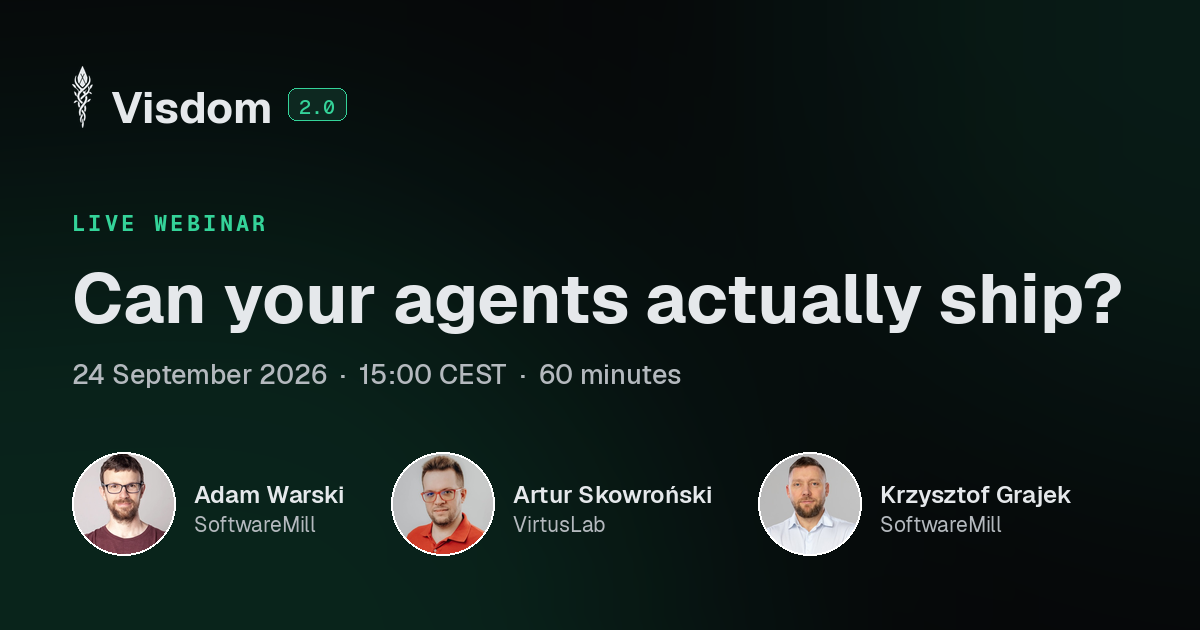
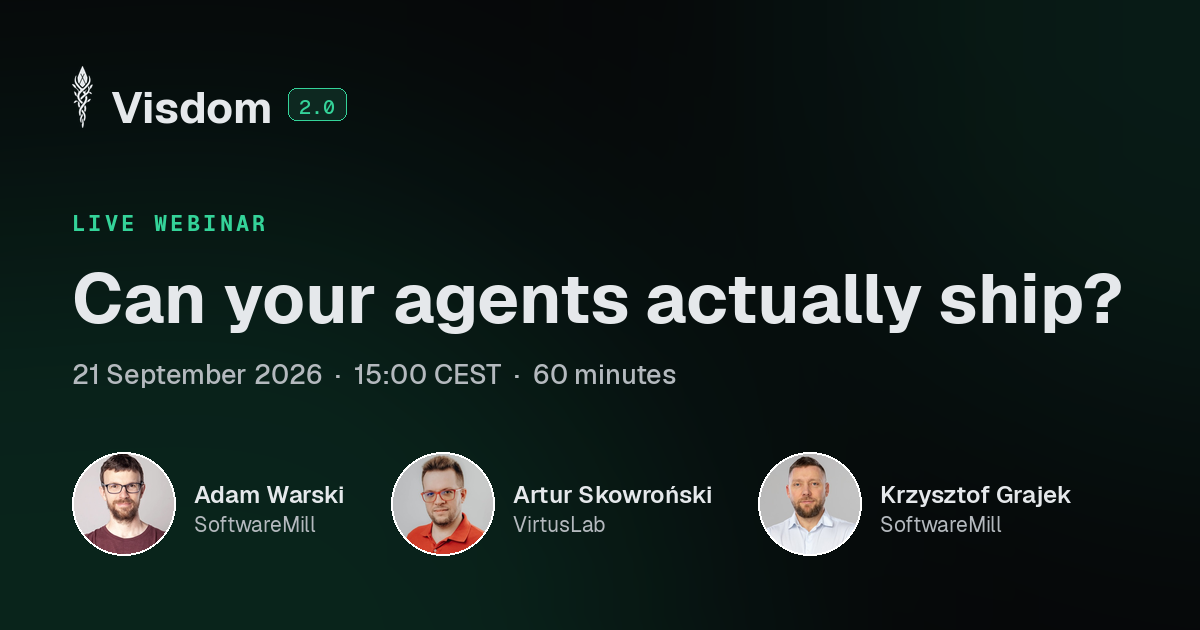
fix(webinar): move the session to Monday 21 September
The schedule had to be reworked and the session came off 24 September.
The clock time is unchanged: 15:00 CEST is what keeps the session
reachable from New York in the morning.

Both cards are regenerated from src/data/webinar.ts, so the page, the
Open Graph card and the Sequel cover all carry the new date.

Changed region(s): [[0.0617, 0.573, 0.5858, 0.6333]]

diff --git a/src/data/webinar.ts b/src/data/webinar.ts
@@ -44,9 +44,10 @@ export const WEBINAR: WebinarConfig = {
     'AI coding assistants can write code. But can they actually deliver software? Join our live session on turning AI-assisted delivery into an agent-operable SDLC.',
   // Copy of the schedule in Sequel (the source of truth). If the event moves
   // in Sequel, this must move with it. 15:00 CEST = 13:00 UTC.
-  // Thursday 24 September, the date the Sequel event carries and the one the
-  // September plan has always named. The page sat on 16 September for a day.
-  startsAt: '2026-09-24T13:00:00Z',
+  // Monday 21 September. The session moved off 24 September when the schedule
+  // had to be reworked. The clock time did not move: 15:00 CEST is what makes
+  // the session reachable from New York in the morning.
+  startsAt: '2026-09-21T13:00:00Z',
   timezone: 'Europe/Warsaw',
   timezoneLabel: 'CEST',
   durationMinutes: 60,
